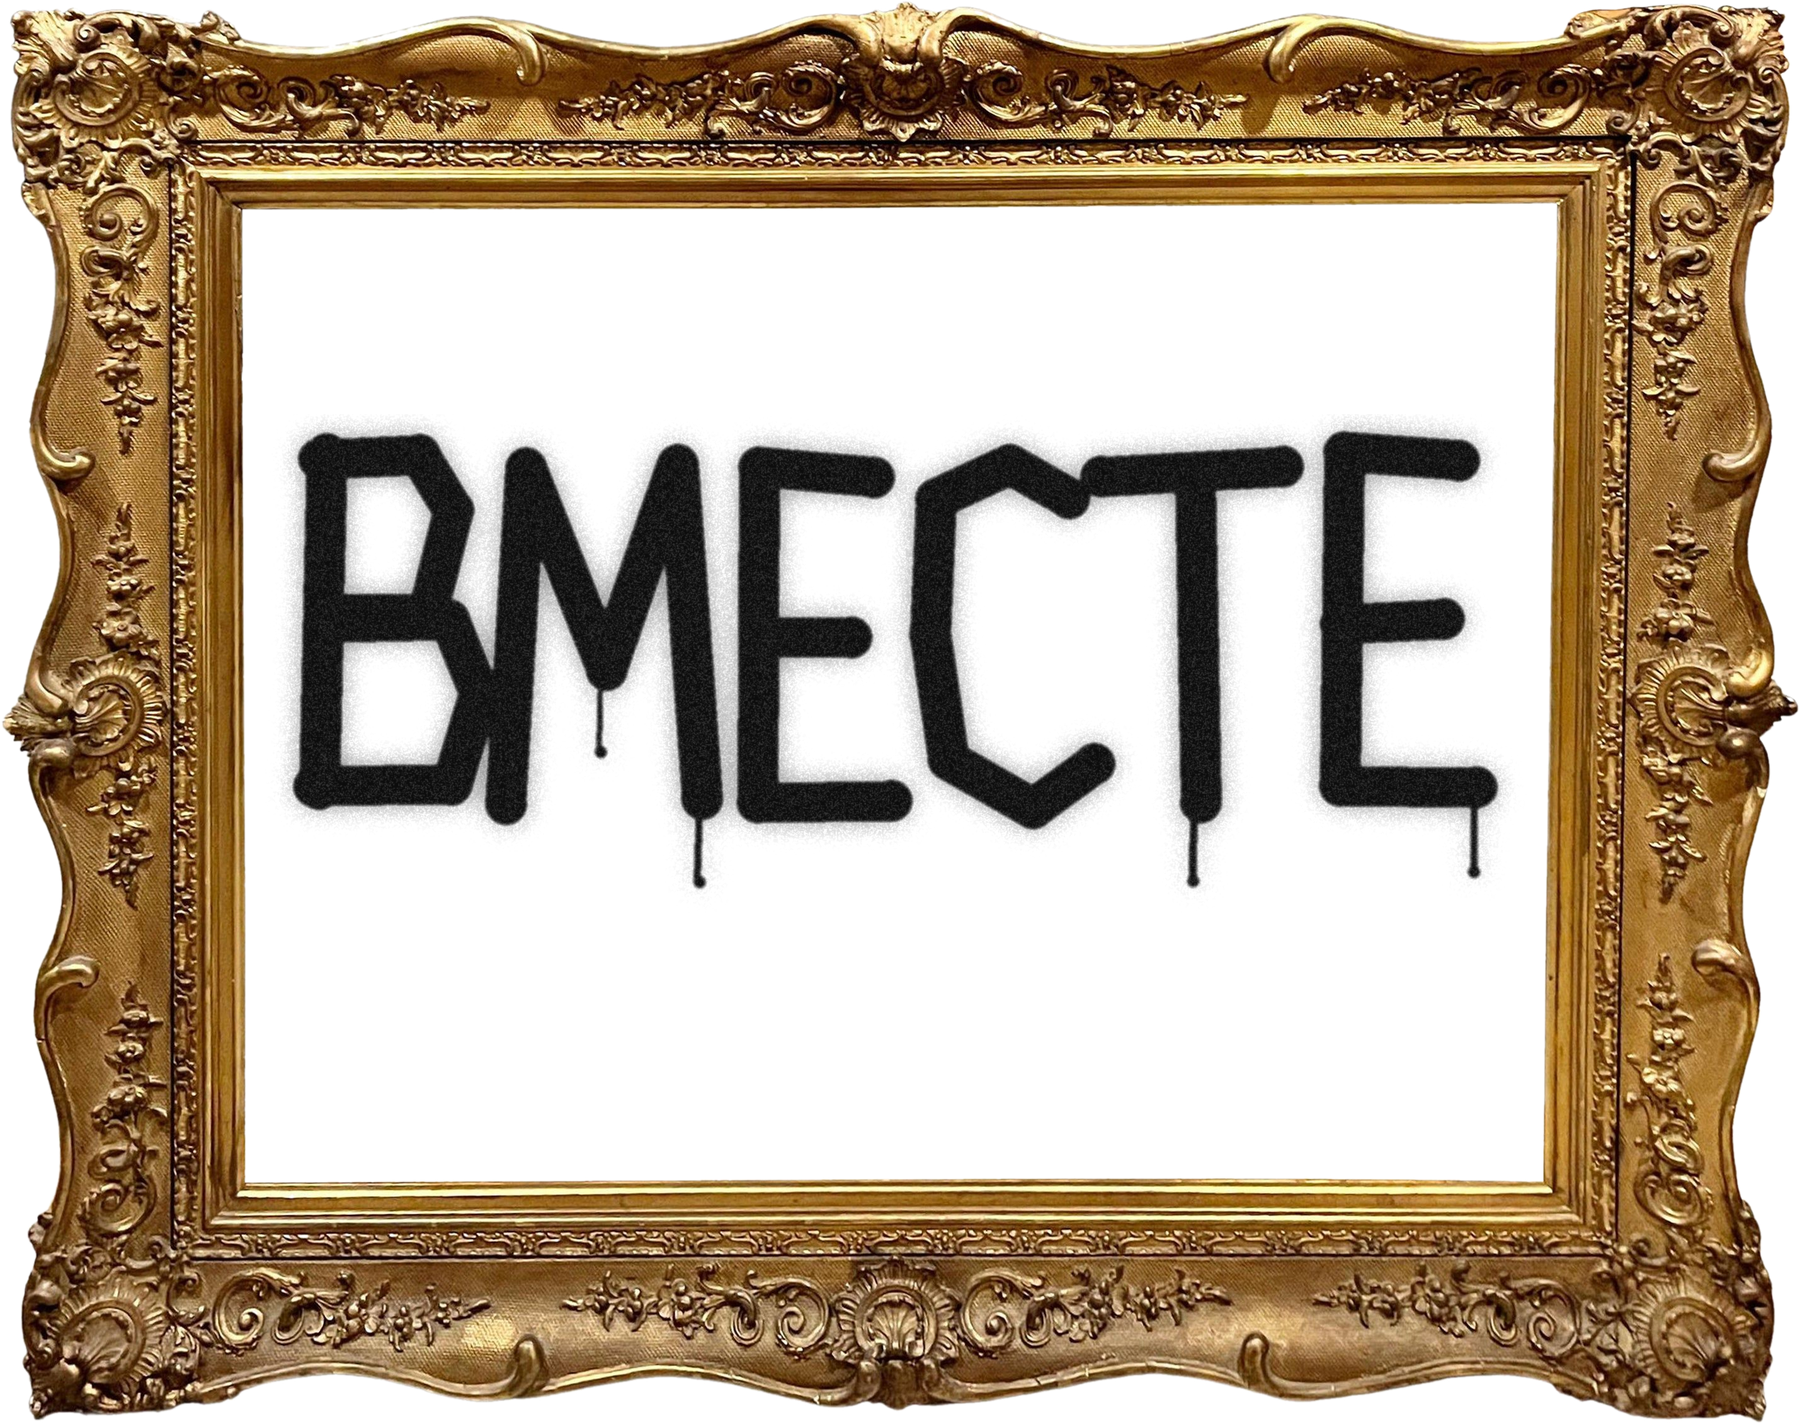
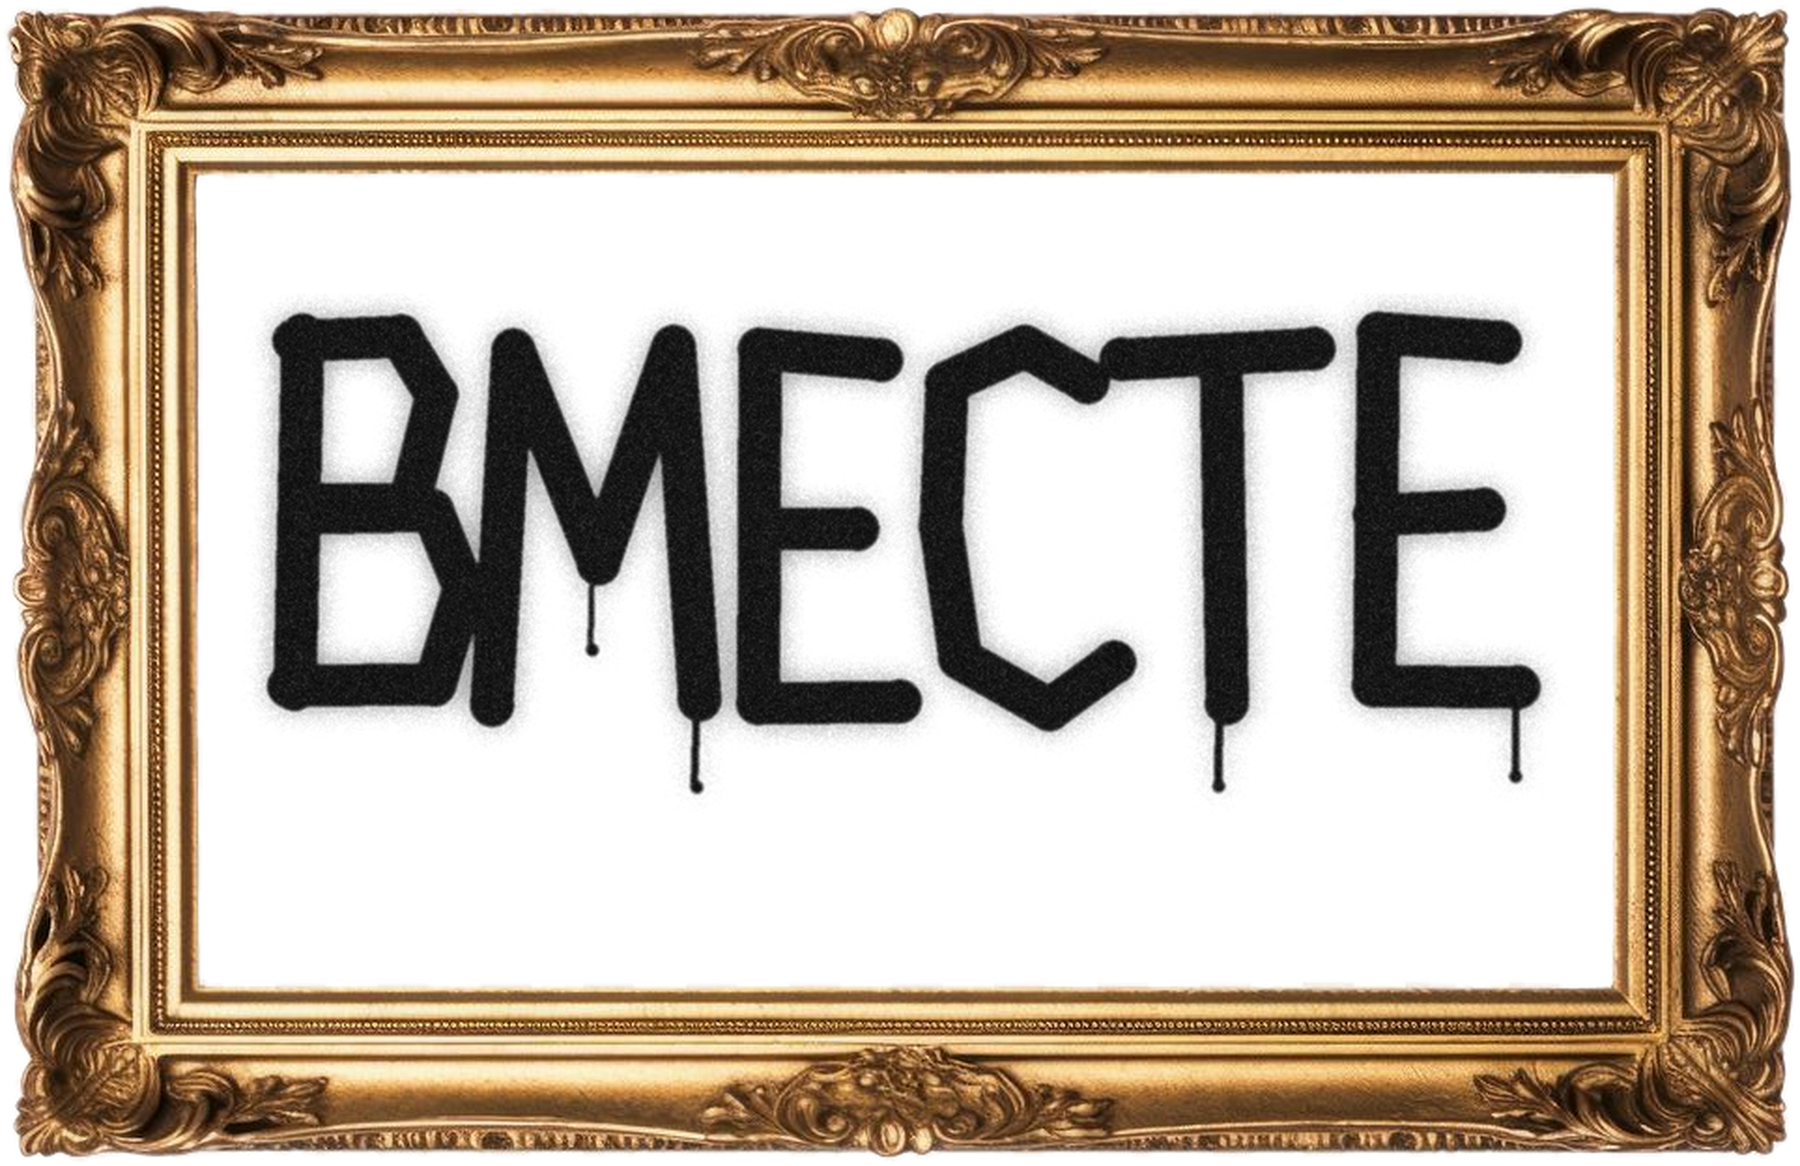
Сайт: Герой: классический золотой багет вместо резного (28.10 14:48)

diff --git a/404.html b/404.html
@@ -9,7 +9,7 @@
 <link rel="icon" href="assets/brand/avatar-blue.svg" type="image/svg+xml">
 <link rel="preconnect" href="https://fonts.googleapis.com"><link rel="preconnect" href="https://fonts.gstatic.com" crossorigin>
 <link rel="stylesheet" href="https://fonts.googleapis.com/css2?family=Oswald:wght@500;600&family=Rubik:wght@600;700&family=Onest:wght@400;500;600;700&display=swap">
-<link rel="stylesheet" href="site.css?v=281324">
+<link rel="stylesheet" href="site.css?v=281448">
 <style>/* на случай, если стили не подгрузились (глубокий адрес): читаемо и без них */
   body { margin: 0; background: #FDF9F2; color: #0F0F0F; font-family: Onest, system-ui, sans-serif; }
   .nf { padding: 48px 16px; }
@@ -27,5 +27,5 @@
 </div></section>
 </main>
 <footer class="foot" id="foot"></footer>
-<script src="events.js?v=281324"></script><script src="content.js?v=281324"></script><script src="site.js?v=281324"></script>
+<script src="events.js?v=281448"></script><script src="content.js?v=281448"></script><script src="site.js?v=281448"></script>
 </body></html>

diff --git a/about.html b/about.html
@@ -8,7 +8,7 @@
 <link rel="icon" href="assets/brand/avatar-blue.svg" type="image/svg+xml">
 <link rel="preconnect" href="https://fonts.googleapis.com"><link rel="preconnect" href="https://fonts.gstatic.com" crossorigin>
 <link rel="stylesheet" href="https://fonts.googleapis.com/css2?family=Oswald:wght@500;600&family=Rubik:wght@600;700&family=Onest:wght@400;500;600;700&family=Caveat:wght@600&display=swap">
-<link rel="stylesheet" href="site.css?v=281324">
+<link rel="stylesheet" href="site.css?v=281448">
 </head><body data-page="about">
 <div class="tick" id="tick"></div>
 <header class="head" id="head"></header>
@@ -45,7 +45,7 @@
 
 </main>
 <footer class="foot" id="foot"></footer>
-<script src="events.js?v=281324"></script><script src="content.js?v=281324"></script><script src="site.js?v=281324"></script>
+<script src="events.js?v=281448"></script><script src="content.js?v=281448"></script><script src="site.js?v=281448"></script>
 <script>
 document.getElementById('about-title').textContent = SITE.slogan;
 renderStory('story', 'principles');

diff --git a/site.js b/site.js
@@ -106,7 +106,7 @@ function renderHero(){
   const pics = (h.photos || []).map(p => `<figure class="wall__pic" style="left:${p.x}%;top:${p.y}%;width:${p.w}%;--rot:${p.rot || 0}deg"><img src="${p.src}" alt="" loading="lazy"></figure>`).join('');
   const btns = (h.actions || []).map(a => `<a class="btn${a.line ? ' btn--line' : ''}" href="${a.href}"${/^https?:/.test(a.href) ? ' target="_blank" rel="noopener"' : ''}>${esc(a.label)}</a>`).join('');
   const canvas = f.image
-    ? `<img class="hang__img" src="${f.image}" alt="${esc(f.title || '')}" width="1800" height="1424">`
+    ? `<img class="hang__img" src="${f.image}" alt="${esc(f.title || '')}" width="1800" height="1166">`
     : `<div class="hang__canvas grain">${f.kicker ? `<p class="hang__kicker">${esc(f.kicker)}</p>` : ''}<h1 class="hang__title">${esc(f.title || SITE.slogan)}</h1>${f.sub ? `<p class="hang__sub">${esc(f.sub)}</p>` : ''}</div>`;
   el.classList.add('hero--wall');
   el.innerHTML = `<div class="wall" style="background-image:url('${h.wall}')">${pics}

diff --git a/post.html b/post.html
@@ -8,7 +8,7 @@
 <link rel="icon" href="assets/brand/avatar-blue.svg" type="image/svg+xml">
 <link rel="preconnect" href="https://fonts.googleapis.com"><link rel="preconnect" href="https://fonts.gstatic.com" crossorigin>
 <link rel="stylesheet" href="https://fonts.googleapis.com/css2?family=Oswald:wght@500;600&family=Rubik:wght@600;700&family=Onest:wght@400;500;600;700&display=swap">
-<link rel="stylesheet" href="site.css?v=281324">
+<link rel="stylesheet" href="site.css?v=281448">
 </head><body data-page="blog">
 <div class="tick" id="tick"></div>
 <header class="head" id="head"></header>
@@ -28,7 +28,7 @@
 
 </main>
 <footer class="foot" id="foot"></footer>
-<script src="events.js?v=281324"></script><script src="content.js?v=281324"></script><script src="site.js?v=281324"></script>
+<script src="events.js?v=281448"></script><script src="content.js?v=281448"></script><script src="site.js?v=281448"></script>
 <script>
 const post = POSTS.find(p => p.id === new URLSearchParams(location.search).get('id'));
 if (!post) {

diff --git a/event.html b/event.html
@@ -8,7 +8,7 @@
 <link rel="icon" href="assets/brand/avatar-blue.svg" type="image/svg+xml">
 <link rel="preconnect" href="https://fonts.googleapis.com"><link rel="preconnect" href="https://fonts.gstatic.com" crossorigin>
 <link rel="stylesheet" href="https://fonts.googleapis.com/css2?family=Oswald:wght@500;600&family=Rubik:wght@600;700&family=Onest:wght@400;500;600;700&display=swap">
-<link rel="stylesheet" href="site.css?v=281324">
+<link rel="stylesheet" href="site.css?v=281448">
 </head><body data-page="afisha">
 <div class="tick" id="tick"></div>
 <header class="head" id="head"></header>
@@ -82,7 +82,7 @@
 </main>
 <footer class="foot" id="foot"></footer>
 
-<script src="events.js?v=281324"></script><script src="content.js?v=281324"></script><script src="site.js?v=281324"></script>
+<script src="events.js?v=281448"></script><script src="content.js?v=281448"></script><script src="site.js?v=281448"></script>
 <script>
 const params = new URLSearchParams(location.search);
 const ev = eventById(params.get('id'));

diff --git a/index.html b/index.html
@@ -8,7 +8,7 @@
 <link rel="icon" href="assets/brand/avatar-blue.svg" type="image/svg+xml">
 <link rel="preconnect" href="https://fonts.googleapis.com"><link rel="preconnect" href="https://fonts.gstatic.com" crossorigin>
 <link rel="stylesheet" href="https://fonts.googleapis.com/css2?family=Oswald:wght@500;600&family=Rubik:wght@600;700&family=Onest:wght@400;500;600;700&family=Caveat:wght@600&display=swap">
-<link rel="stylesheet" href="site.css?v=281324">
+<link rel="stylesheet" href="site.css?v=281448">
 </head><body data-page="home">
 <div class="tick" id="tick"></div>
 <header class="head" id="head"></header>
@@ -56,7 +56,7 @@
 
 </main>
 <footer class="foot" id="foot"></footer>
-<script src="events.js?v=281324"></script><script src="content.js?v=281324"></script><script src="site.js?v=281324"></script>
+<script src="events.js?v=281448"></script><script src="content.js?v=281448"></script><script src="site.js?v=281448"></script>
 <script>
 renderHero();
 renderPosters('home-events', { months: true });

diff --git a/consent.html b/consent.html
@@ -8,7 +8,7 @@
 <link rel="icon" href="assets/brand/avatar-blue.svg" type="image/svg+xml">
 <link rel="preconnect" href="https://fonts.googleapis.com"><link rel="preconnect" href="https://fonts.gstatic.com" crossorigin>
 <link rel="stylesheet" href="https://fonts.googleapis.com/css2?family=Oswald:wght@500;600&family=Rubik:wght@600;700&family=Onest:wght@400;500;600;700&display=swap">
-<link rel="stylesheet" href="site.css?v=281324">
+<link rel="stylesheet" href="site.css?v=281448">
 </head><body data-page="docs">
 <div class="tick" id="tick"></div>
 <header class="head" id="head"></header>
@@ -33,6 +33,6 @@
 
 </main>
 <footer class="foot" id="foot"></footer>
-<script src="events.js?v=281324"></script><script src="content.js?v=281324"></script><script src="site.js?v=281324"></script>
+<script src="events.js?v=281448"></script><script src="content.js?v=281448"></script><script src="site.js?v=281448"></script>
 <script>document.getElementById('tg').href = SITE.telegram;</script>
 </body></html>

diff --git a/privacy.html b/privacy.html
@@ -8,7 +8,7 @@
 <link rel="icon" href="assets/brand/avatar-blue.svg" type="image/svg+xml">
 <link rel="preconnect" href="https://fonts.googleapis.com"><link rel="preconnect" href="https://fonts.gstatic.com" crossorigin>
 <link rel="stylesheet" href="https://fonts.googleapis.com/css2?family=Oswald:wght@500;600&family=Rubik:wght@600;700&family=Onest:wght@400;500;600;700&display=swap">
-<link rel="stylesheet" href="site.css?v=281324">
+<link rel="stylesheet" href="site.css?v=281448">
 </head><body data-page="docs">
 <div class="tick" id="tick"></div>
 <header class="head" id="head"></header>
@@ -42,6 +42,6 @@
 
 </main>
 <footer class="foot" id="foot"></footer>
-<script src="events.js?v=281324"></script><script src="content.js?v=281324"></script><script src="site.js?v=281324"></script>
+<script src="events.js?v=281448"></script><script src="content.js?v=281448"></script><script src="site.js?v=281448"></script>
 <script>document.getElementById('tg').href = SITE.telegram;</script>
 </body></html>

diff --git a/afisha.html b/afisha.html
@@ -8,7 +8,7 @@
 <link rel="icon" href="assets/brand/avatar-blue.svg" type="image/svg+xml">
 <link rel="preconnect" href="https://fonts.googleapis.com"><link rel="preconnect" href="https://fonts.gstatic.com" crossorigin>
 <link rel="stylesheet" href="https://fonts.googleapis.com/css2?family=Oswald:wght@500;600&family=Rubik:wght@600;700&family=Onest:wght@400;500;600;700&display=swap">
-<link rel="stylesheet" href="site.css?v=281324">
+<link rel="stylesheet" href="site.css?v=281448">
 </head><body data-page="afisha">
 <div class="tick" id="tick"></div>
 <header class="head" id="head"></header>
@@ -31,7 +31,7 @@
 
 </main>
 <footer class="foot" id="foot"></footer>
-<script src="events.js?v=281324"></script><script src="content.js?v=281324"></script><script src="site.js?v=281324"></script>
+<script src="events.js?v=281448"></script><script src="content.js?v=281448"></script><script src="site.js?v=281448"></script>
 <script>
 renderPosters('afisha', { months: true });
 renderPast('past-events');

diff --git a/partners.html b/partners.html
@@ -8,7 +8,7 @@
 <link rel="icon" href="assets/brand/avatar-blue.svg" type="image/svg+xml">
 <link rel="preconnect" href="https://fonts.googleapis.com"><link rel="preconnect" href="https://fonts.gstatic.com" crossorigin>
 <link rel="stylesheet" href="https://fonts.googleapis.com/css2?family=Oswald:wght@500;600&family=Rubik:wght@600;700&family=Onest:wght@400;500;600;700&display=swap">
-<link rel="stylesheet" href="site.css?v=281324">
+<link rel="stylesheet" href="site.css?v=281448">
 </head><body data-page="partners">
 <div class="tick" id="tick"></div>
 <header class="head" id="head"></header>
@@ -32,6 +32,6 @@
 
 </main>
 <footer class="foot" id="foot"></footer>
-<script src="events.js?v=281324"></script><script src="content.js?v=281324"></script><script src="site.js?v=281324"></script>
+<script src="events.js?v=281448"></script><script src="content.js?v=281448"></script><script src="site.js?v=281448"></script>
 <script>renderPartners('partners'); bindLinks();</script>
 </body></html>

diff --git a/people.html b/people.html
@@ -8,7 +8,7 @@
 <link rel="icon" href="assets/brand/avatar-blue.svg" type="image/svg+xml">
 <link rel="preconnect" href="https://fonts.googleapis.com"><link rel="preconnect" href="https://fonts.gstatic.com" crossorigin>
 <link rel="stylesheet" href="https://fonts.googleapis.com/css2?family=Oswald:wght@500;600&family=Rubik:wght@600;700&family=Onest:wght@400;500;600;700&display=swap">
-<link rel="stylesheet" href="site.css?v=281324">
+<link rel="stylesheet" href="site.css?v=281448">
 </head><body data-page="people">
 <div class="tick" id="tick"></div>
 <header class="head" id="head"></header>
@@ -23,6 +23,6 @@
 
 </main>
 <footer class="foot" id="foot"></footer>
-<script src="events.js?v=281324"></script><script src="content.js?v=281324"></script><script src="site.js?v=281324"></script>
+<script src="events.js?v=281448"></script><script src="content.js?v=281448"></script><script src="site.js?v=281448"></script>
 <script>renderPeople('people');</script>
 </body></html>

diff --git a/person.html b/person.html
@@ -8,12 +8,12 @@
 <link rel="icon" href="assets/brand/avatar-blue.svg" type="image/svg+xml">
 <link rel="preconnect" href="https://fonts.googleapis.com"><link rel="preconnect" href="https://fonts.gstatic.com" crossorigin>
 <link rel="stylesheet" href="https://fonts.googleapis.com/css2?family=Oswald:wght@500;600&family=Rubik:wght@600;700&family=Onest:wght@400;500;600;700&display=swap">
-<link rel="stylesheet" href="site.css?v=281324">
+<link rel="stylesheet" href="site.css?v=281448">
 </head><body data-page="team">
 <div class="tick" id="tick"></div>
 <header class="head" id="head"></header>
 <main id="person"></main>
 <footer class="foot" id="foot"></footer>
-<script src="events.js?v=281324"></script><script src="content.js?v=281324"></script><script src="site.js?v=281324"></script>
+<script src="events.js?v=281448"></script><script src="content.js?v=281448"></script><script src="site.js?v=281448"></script>
 <script>renderPerson('person');</script>
 </body></html>
